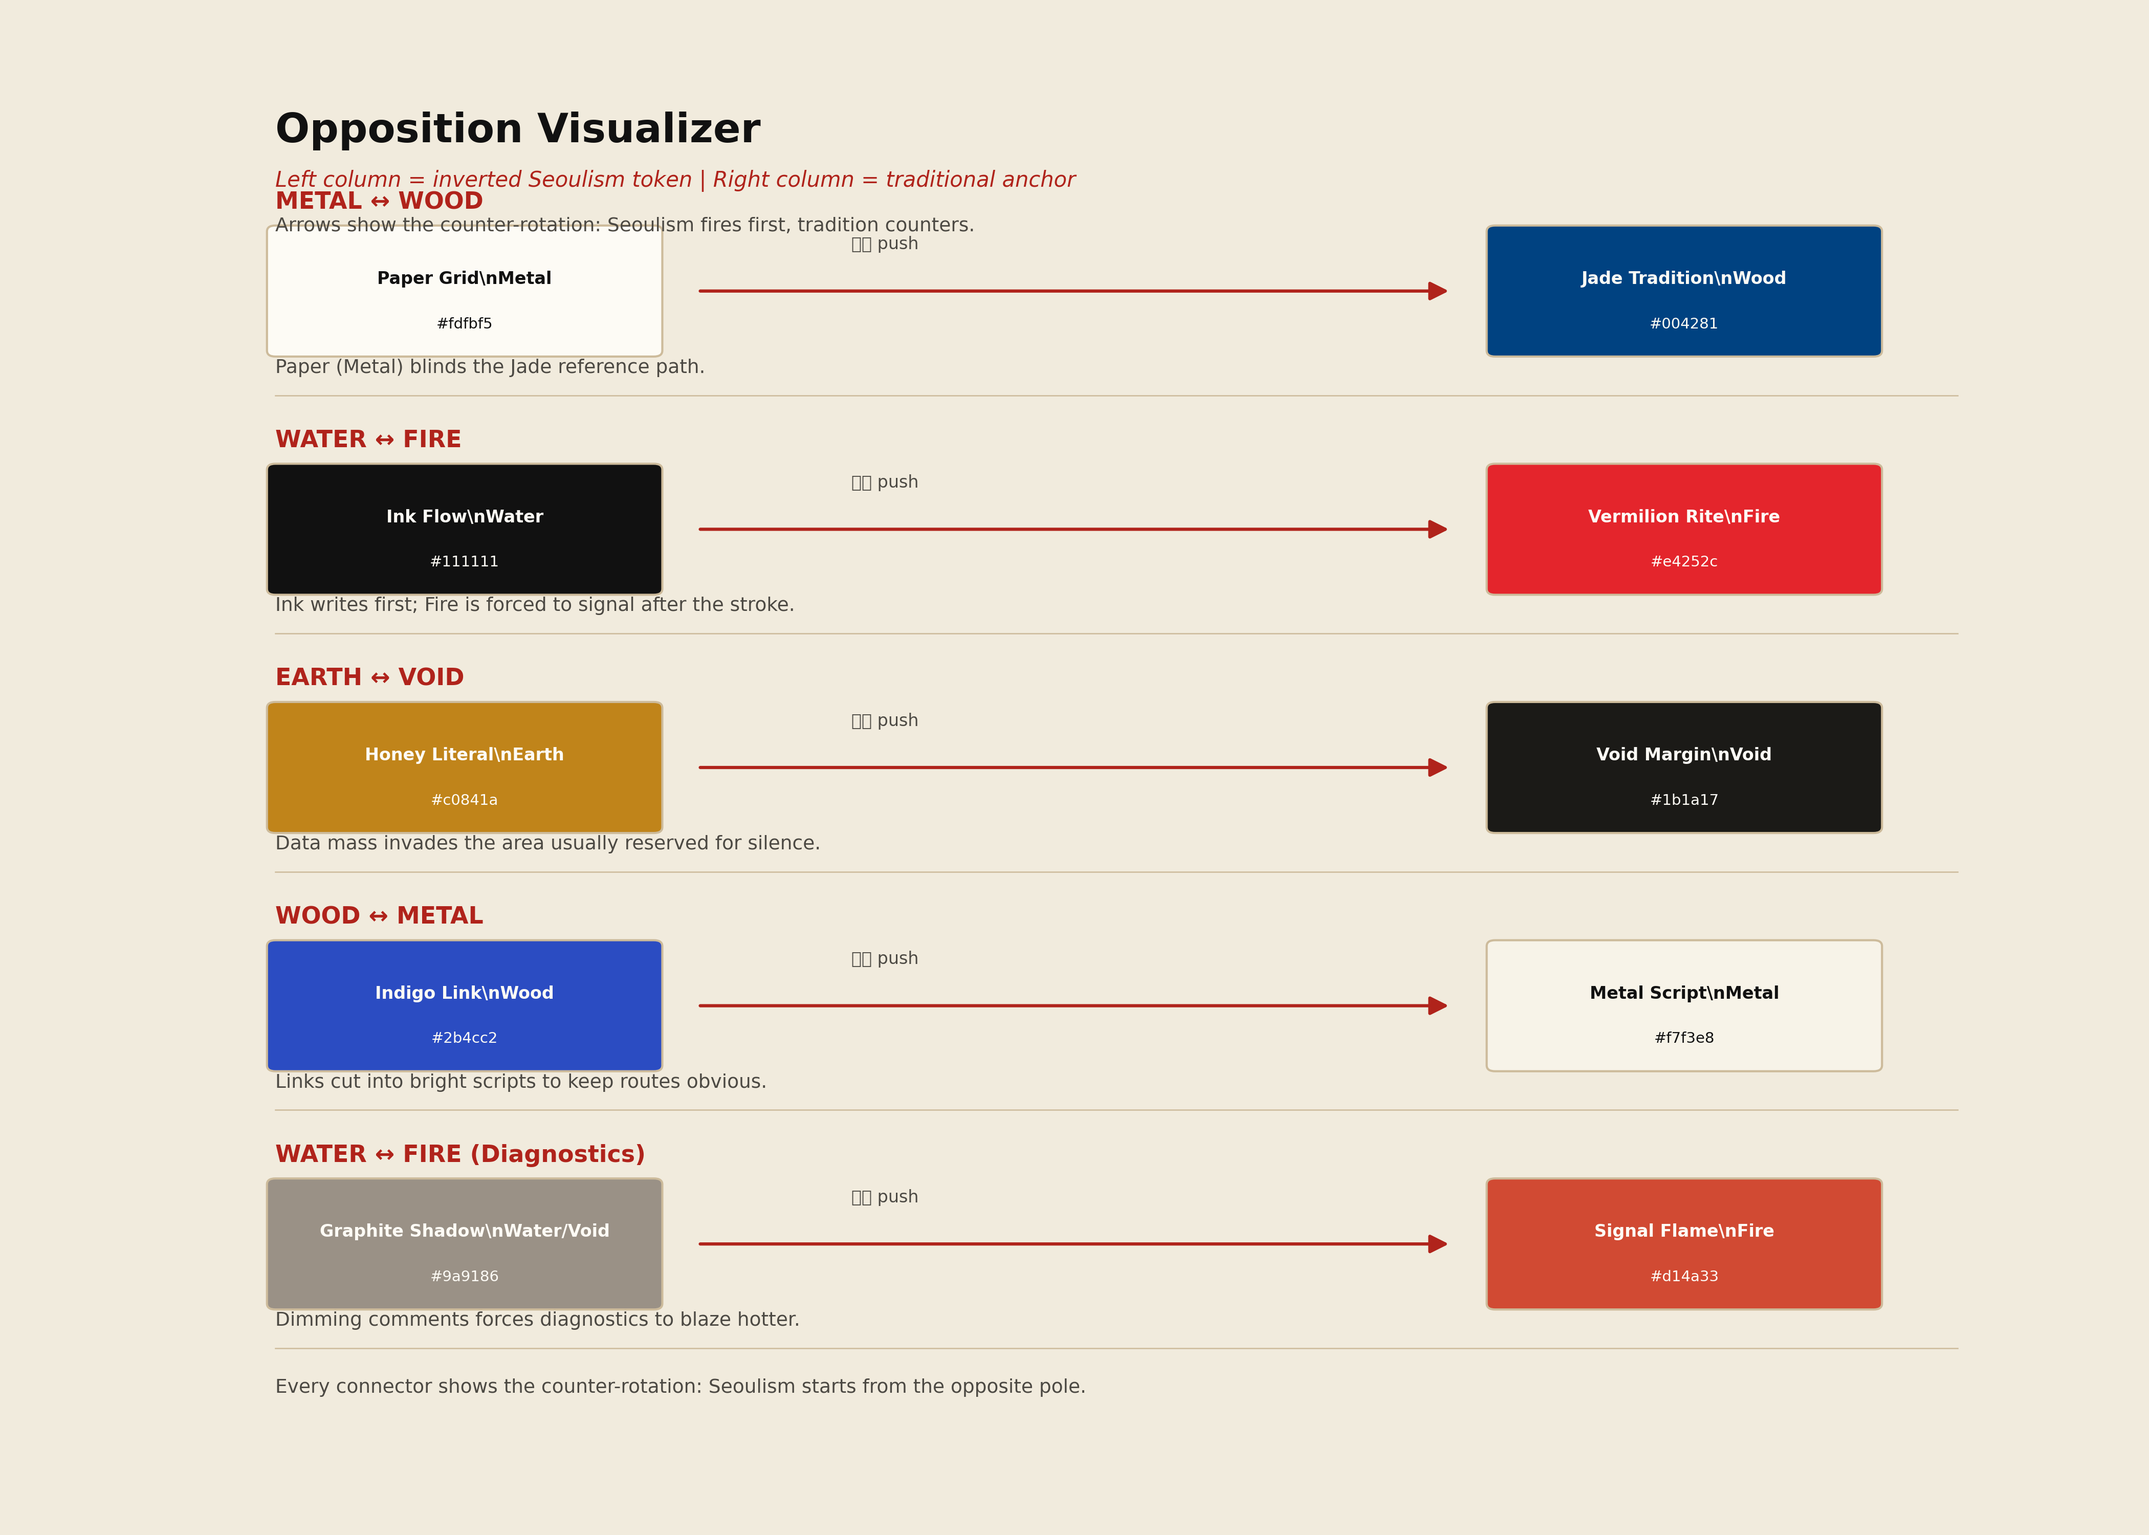
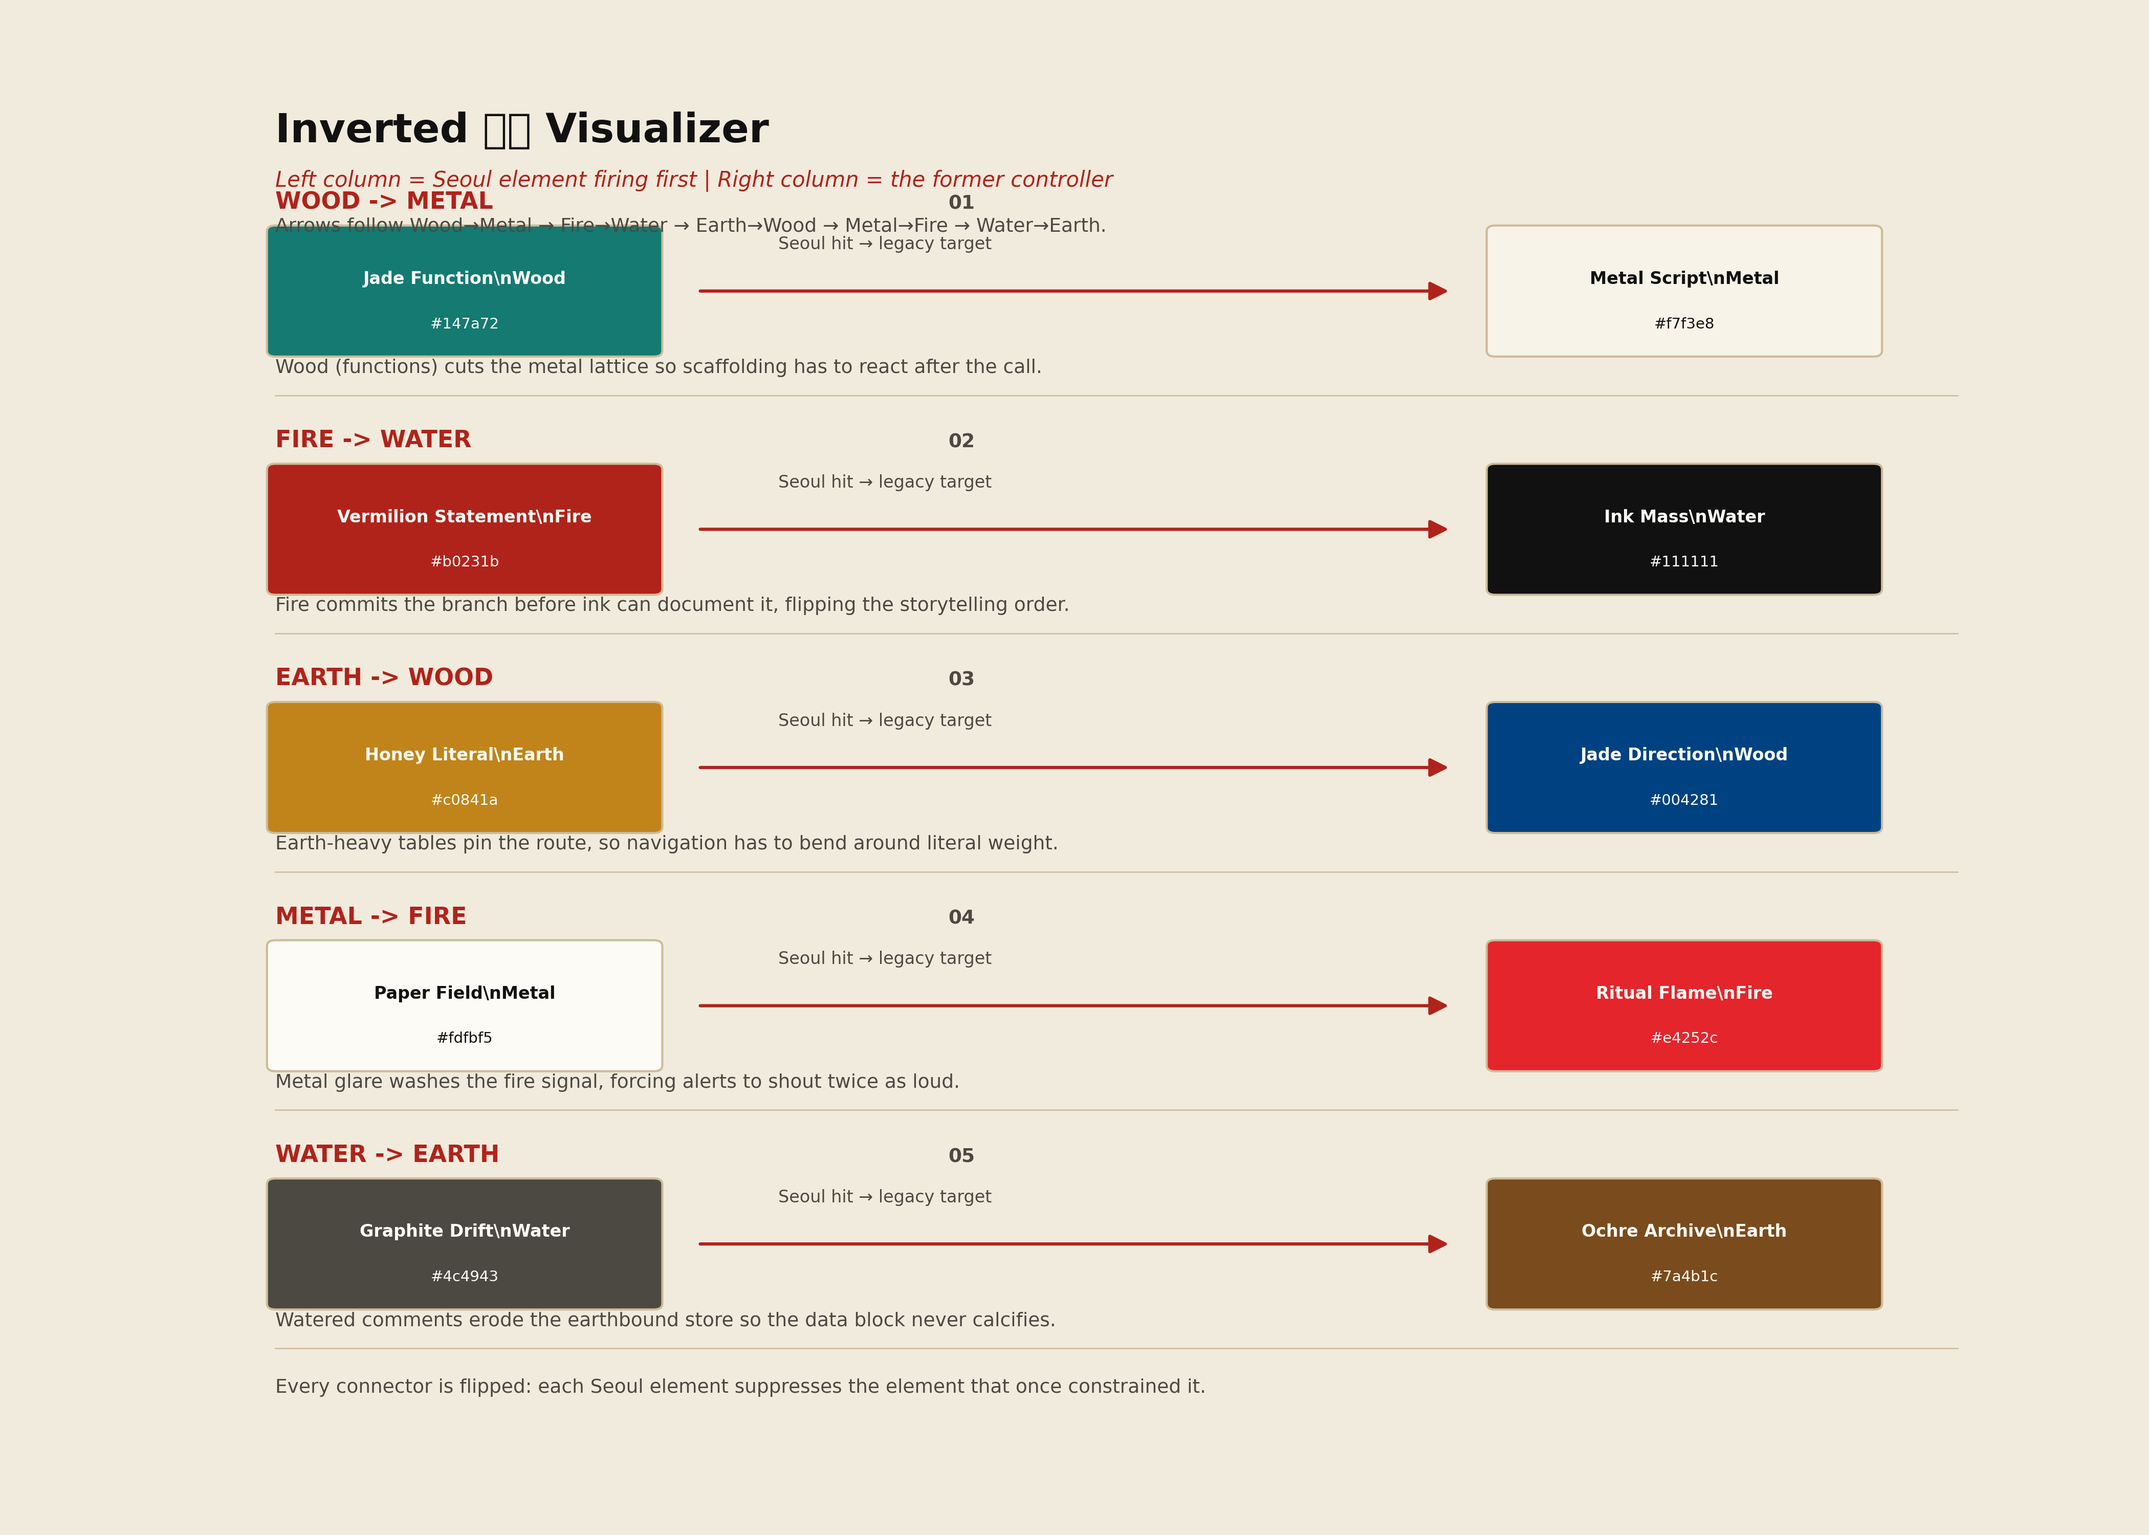
update palette

diff --git a/preview.py b/preview.py
@@ -8,30 +8,41 @@ GRAPHITE = '#4c4943'
 DIVIDER = '#d8cbb7'
 ACCENT = '#b0231b'
 
-PAIRS = [
+COUNTER_CHAIN = [
     {
-        'pair': 'METAL ↔ WOOD',
-        'seoul': {'tag': 'Paper Grid', 'hex': PAPER, 'element': 'Metal', 'logic': 'Field / Stage'},
-        'trad': {'tag': 'Jade Anchor', 'hex': '#004281', 'element': 'Wood', 'logic': 'Lineage / Direction'},
-        'note': 'Paper-first Metal clamps the Jade lineage so navigation must carve through glare.'
+        'step': '01',
+        'pair': 'WOOD -> METAL',
+        'seoul': {'tag': 'Jade Function', 'hex': '#147a72', 'element': 'Wood', 'logic': 'Declares / Breaths'},
+        'trad': {'tag': 'Metal Script', 'hex': '#f7f3e8', 'element': 'Metal', 'logic': 'Law / Frame'},
+        'note': 'Wood-first functions now cleave into pale metal scaffolding, so structure happens after the breath.'
     },
     {
-        'pair': 'WATER ↔ FIRE',
-        'seoul': {'tag': 'Ink Flow', 'hex': '#111111', 'element': 'Water', 'logic': 'Content / Stroke'},
-        'trad': {'tag': 'Vermilion Alarm', 'hex': '#e4252c', 'element': 'Fire', 'logic': 'Warning / Ritual'},
-        'note': 'Ink (Water) now initiates, forcing vermilion fire to answer as a counter-punch.'
+        'step': '02',
+        'pair': 'FIRE -> WATER',
+        'seoul': {'tag': 'Vermilion Statement', 'hex': '#b0231b', 'element': 'Fire', 'logic': 'Decision / Heat'},
+        'trad': {'tag': 'Ink Mass', 'hex': '#111111', 'element': 'Water', 'logic': 'Stroke / Memory'},
+        'note': 'Statements ignite before ink settles; Water has to archive what Fire already committed.'
     },
     {
-        'pair': 'EARTH ↔ VOID',
-        'seoul': {'tag': 'Honey Earth', 'hex': '#c0841a', 'element': 'Earth', 'logic': 'Literal / Data'},
-        'trad': {'tag': 'Shadow Void', 'hex': '#1b1a17', 'element': 'Void', 'logic': 'Silence / Margin'},
-        'note': 'Warm literals invade the space normally reserved for void, keeping whitespace under tension.'
+        'step': '03',
+        'pair': 'EARTH -> WOOD',
+        'seoul': {'tag': 'Honey Literal', 'hex': '#c0841a', 'element': 'Earth', 'logic': 'Data / Weight'},
+        'trad': {'tag': 'Jade Direction', 'hex': '#004281', 'element': 'Wood', 'logic': 'Route / Hierarchy'},
+        'note': 'Literal tables pin the navigation layer, forcing wayfinding to grow around dense data.'
     },
     {
-        'pair': 'WOOD(LINK) ↔ METAL(LINE)',
-        'seoul': {'tag': 'Indigo Link', 'hex': '#2b4cc2', 'element': 'Wood(Link)', 'logic': 'Reference / Jump'},
-        'trad': {'tag': 'Metal Script', 'hex': '#f7f3e8', 'element': 'Metal', 'logic': 'Structure / Law'},
-        'note': 'Navigation blue slices across bright scripts so structure never relaxes.'
+        'step': '04',
+        'pair': 'METAL -> FIRE',
+        'seoul': {'tag': 'Paper Field', 'hex': PAPER, 'element': 'Metal', 'logic': 'Stage / Surface'},
+        'trad': {'tag': 'Ritual Flame', 'hex': '#e4252c', 'element': 'Fire', 'logic': 'Alert / Rite'},
+        'note': 'Glare-first metal bleaches legacy alarms so Fire has to over-saturate to register.'
+    },
+    {
+        'step': '05',
+        'pair': 'WATER -> EARTH',
+        'seoul': {'tag': 'Graphite Ink', 'hex': GRAPHITE, 'element': 'Water', 'logic': 'Comment / Drift'},
+        'trad': {'tag': 'Ochre Archive', 'hex': '#7a4b1c', 'element': 'Earth', 'logic': 'Store / Terrain'},
+        'note': 'Graphite-toned documentation seeps into earthy stores, so data blocks stay porous.'
     },
 ]
 
@@ -51,8 +62,8 @@ def draw_seoulism_blueprint():
     ax.set_ylim(0, 100)
     ax.axis('off')
 
-    ax.text(8, 93, 'SEOULISM SANGGEUK BLUEPRINT', color=INK, fontsize=20, weight='bold')
-    ax.text(8, 89, 'Every pair is drawn as its own opposition. No neutral ground.',
+    ax.text(8, 93, 'SEOULISM COUNTER-CHAIN BLUEPRINT', color=INK, fontsize=20, weight='bold')
+    ax.text(8, 89, 'Seoul colors attack the element that used to control them. Tradition is now on defense.',
             color=ACCENT, fontsize=10, style='italic')
 
     row_height = 18
@@ -60,11 +71,13 @@ def draw_seoulism_blueprint():
     left_x = 10
     right_x = 58
 
-    for idx, pair in enumerate(PAIRS):
+    for idx, pair in enumerate(COUNTER_CHAIN):
         y = 80 - idx * row_height
         pair_label_y = y + block_height + 3
 
-        ax.text(left_x, pair_label_y, pair['pair'], color=ACCENT,
+        ax.text(left_x, pair_label_y,
+                f"{pair['step']} {pair['pair']}",
+                color=ACCENT,
                 fontsize=12, weight='bold')
         ax.text(left_x, y - 2, pair['note'], color=GRAPHITE,
                 fontsize=9, alpha=0.95)
@@ -102,9 +115,12 @@ def draw_seoulism_blueprint():
                     arrowprops=dict(arrowstyle='->', color=ACCENT,
                                     lw=1.4, mutation_scale=18))
         ax.text((left_x + right_x) / 2 + 5, y + block_height / 2 + 2,
-                'counter-rotation', color=GRAPHITE, fontsize=8, ha='center')
+                'Seoul hit ➜ former anchor', color=GRAPHITE, fontsize=8, ha='center')
 
         ax.plot([left_x, 90], [y - 4, y - 4], color=DIVIDER, linewidth=0.6)
+
+    ax.text(8, 10, 'Order: Wood→Metal → Fire→Water → Earth→Wood → Metal→Fire → Water→Earth',
+            color=GRAPHITE, fontsize=8.5)
 
     plt.tight_layout()
     plt.savefig('preview.png', facecolor=PAPER_EDGE, dpi=300)

diff --git a/visualizer.py b/visualizer.py
@@ -8,36 +8,41 @@ GRAPHITE = '#4c4943'
 DIVIDER = '#cdbb9b'
 ACCENT = '#b0231b'
 
-PAIRS = [
+COUNTER_CHAIN = [
     {
-        'name': 'METAL ↔ WOOD',
-        'seoul': {'label': 'Paper Grid', 'hex': '#fdfbf5', 'element': 'Metal'},
-        'trad': {'label': 'Jade Tradition', 'hex': '#004281', 'element': 'Wood'},
-        'logic': 'Paper (Metal) blinds the Jade reference path.'
-    },
-    {
-        'name': 'WATER ↔ FIRE',
-        'seoul': {'label': 'Ink Flow', 'hex': '#111111', 'element': 'Water'},
-        'trad': {'label': 'Vermilion Rite', 'hex': '#e4252c', 'element': 'Fire'},
-        'logic': 'Ink writes first; Fire is forced to signal after the stroke.'
-    },
-    {
-        'name': 'EARTH ↔ VOID',
-        'seoul': {'label': 'Honey Literal', 'hex': '#c0841a', 'element': 'Earth'},
-        'trad': {'label': 'Void Margin', 'hex': '#1b1a17', 'element': 'Void'},
-        'logic': 'Data mass invades the area usually reserved for silence.'
-    },
-    {
-        'name': 'WOOD ↔ METAL',
-        'seoul': {'label': 'Indigo Link', 'hex': '#2b4cc2', 'element': 'Wood'},
+        'step': '01',
+        'name': 'WOOD -> METAL',
+        'seoul': {'label': 'Jade Function', 'hex': '#147a72', 'element': 'Wood'},
         'trad': {'label': 'Metal Script', 'hex': '#f7f3e8', 'element': 'Metal'},
-        'logic': 'Links cut into bright scripts to keep routes obvious.'
+        'logic': 'Wood (functions) cuts the metal lattice so scaffolding has to react after the call.'
     },
     {
-        'name': 'WATER ↔ FIRE (Diagnostics)',
-        'seoul': {'label': 'Graphite Shadow', 'hex': '#9a9186', 'element': 'Water/Void'},
-        'trad': {'label': 'Signal Flame', 'hex': '#d14a33', 'element': 'Fire'},
-        'logic': 'Dimming comments forces diagnostics to blaze hotter.'
+        'step': '02',
+        'name': 'FIRE -> WATER',
+        'seoul': {'label': 'Vermilion Statement', 'hex': '#b0231b', 'element': 'Fire'},
+        'trad': {'label': 'Ink Mass', 'hex': '#111111', 'element': 'Water'},
+        'logic': 'Fire commits the branch before ink can document it, flipping the storytelling order.'
+    },
+    {
+        'step': '03',
+        'name': 'EARTH -> WOOD',
+        'seoul': {'label': 'Honey Literal', 'hex': '#c0841a', 'element': 'Earth'},
+        'trad': {'label': 'Jade Direction', 'hex': '#004281', 'element': 'Wood'},
+        'logic': 'Earth-heavy tables pin the route, so navigation has to bend around literal weight.'
+    },
+    {
+        'step': '04',
+        'name': 'METAL -> FIRE',
+        'seoul': {'label': 'Paper Field', 'hex': '#fdfbf5', 'element': 'Metal'},
+        'trad': {'label': 'Ritual Flame', 'hex': '#e4252c', 'element': 'Fire'},
+        'logic': 'Metal glare washes the fire signal, forcing alerts to shout twice as loud.'
+    },
+    {
+        'step': '05',
+        'name': 'WATER -> EARTH',
+        'seoul': {'label': 'Graphite Drift', 'hex': '#4c4943', 'element': 'Water'},
+        'trad': {'label': 'Ochre Archive', 'hex': '#7a4b1c', 'element': 'Earth'},
+        'logic': 'Watered comments erode the earthbound store so the data block never calcifies.'
     }
 ]
 
@@ -67,20 +72,22 @@ def draw_seoulism_chain():
     ax.set_ylim(0, 100)
     ax.axis('off')
 
-    ax.text(12, 92, 'Opposition Visualizer', color=INK, fontsize=19, weight='bold')
-    ax.text(12, 89, 'Left column = inverted Seoulism token | Right column = traditional anchor',
+    ax.text(12, 92, 'Inverted 상극 Visualizer', color=INK, fontsize=19, weight='bold')
+    ax.text(12, 89, 'Left column = Seoul element firing first | Right column = the former controller',
             color=ACCENT, fontsize=10, style='italic')
-    ax.text(12, 86, 'Arrows show the counter-rotation: Seoulism fires first, tradition counters.',
+    ax.text(12, 86, 'Arrows follow Wood→Metal → Fire→Water → Earth→Wood → Metal→Fire → Water→Earth.',
             color=GRAPHITE, fontsize=9)
 
     left_x = 12
     right_x = 70
     row_gap = 16
 
-    for idx, pair in enumerate(PAIRS):
+    for idx, pair in enumerate(COUNTER_CHAIN):
         y = 78 - idx * row_gap
         ax.text(left_x, y + 9.5, pair['name'], color=ACCENT,
                 fontsize=11, weight='bold')
+        ax.text(left_x + 32, y + 9.5, pair['step'], color=GRAPHITE,
+                fontsize=9, weight='bold')
         ax.text(left_x, y - 1.5, pair['logic'], color=GRAPHITE,
                 fontsize=9)
 
@@ -90,12 +97,12 @@ def draw_seoulism_chain():
         ax.annotate('', xy=(right_x - 2, y + 4), xytext=(left_x + 18 + 2, y + 4),
                     arrowprops=dict(arrowstyle='-|>', color=ACCENT,
                                     lw=1.5, mutation_scale=18))
-        ax.text((left_x + right_x) / 2, y + 6.8, '상극 push',
+        ax.text((left_x + right_x) / 2, y + 6.8, 'Seoul hit → legacy target',
                 color=GRAPHITE, fontsize=8, ha='center')
 
         ax.plot([left_x, 92], [y - 3, y - 3], color=DIVIDER, linewidth=0.6)
 
-    ax.text(12, 8, 'Every connector shows the counter-rotation: Seoulism starts from the opposite pole.',
+    ax.text(12, 8, 'Every connector is flipped: each Seoul element suppresses the element that once constrained it.',
             color=GRAPHITE, fontsize=9)
 
     plt.tight_layout()

diff --git a/pentagon.py b/pentagon.py
@@ -14,11 +14,11 @@ STAR_ARROW = '#2f3b8f'
 NODE_OUTLINE = '#bfae95'
 
 ELEMENTS = [
-    ('WOOD',  '#0000FF', '#147a72', 'Counter Metal'),
-    ('FIRE',  '#FF0000', '#b0231b', 'Counter Water'),
-    ('EARTH', '#FFFF00', '#c0841a', 'Counter Void'),
-    ('METAL', '#FFFFFF', '#fdfbf5', 'Counter Wood'),
-    ('WATER', '#000000', '#111111', 'Counter Fire'),
+    ('WOOD',  '#0000FF', '#147a72', 'Cuts Metal first'),
+    ('FIRE',  '#FF0000', '#b0231b', 'Overwrites Water'),
+    ('EARTH', '#FFFF00', '#c0841a', 'Pins Wood'),
+    ('METAL', '#FFFFFF', '#fdfbf5', 'Bleaches Fire'),
+    ('WATER', '#000000', '#111111', 'Erodes Earth'),
 ]
 
 COUNTER_PAIRS = [(0, 3), (1, 4), (2, 0), (3, 1), (4, 2)]
@@ -69,7 +69,8 @@ def draw_systemic_divergence():
         ax.text(x, y - 0.3, trad + ' trad', ha='center', va='center', fontsize=7,
                 color=GRAPHITE)
 
-    ax.text(0, -1.5, 'Red arrows = Counter-Rotation pairs (modern hit) | Dotted star = tradition order',
+    ax.text(0, -1.45,
+            'Red arrows: Wood→Metal → Fire→Water → Earth→Wood → Metal→Fire → Water→Earth | Dotted star = tradition order',
             color=GRAPHITE, fontsize=9, ha='center')
 
     plt.savefig("pentagon_cycle.png")

diff --git a/README.md b/README.md
@@ -35,7 +35,7 @@ The canvas uses `#fdfbf5`, a slight-warm hanji tone. The default text is `#11111
 
 ### 상극: reversing the chain
 
-Instead of marching through Fire ➜ Earth ➜ Metal, the palette now starts from oppositions: Metal vs. Wood, Water vs. Fire, Earth vs. Void. Accents are paired with their counterpart and the README, preview diagram, and pentagon plot all document those inversions.
+Instead of marching through Fire ➜ Earth ➜ Metal, the palette now fires in reverse: **Wood → Metal**, **Fire → Water**, **Earth → Wood**, **Metal → Fire**, **Water → Earth**. Each Seoulism color now attacks the element that traditionally kept it in check. The preview diagram, visualizer, and pentagon all share this exact order so the flipped 상극 logic is impossible to miss.
 
 ### Emotion before scene
 
@@ -56,7 +56,17 @@ This is still an interpretation of 오방색, just expressed as a modern daytime
 ![Visualizer](./visualizer.png)
 ![Pentagon](./pentagon_cycle.png)
 
-The updated diagrams document the new order. Each chain now starts from cognitive role ➜ Seoulism token ➜ traditional anchor so you can read how each counter-color is wired.
+The updated diagrams document the flipped order. Each chain now starts from cognitive role ➜ Seoulism token ➜ the traditional anchor it now suppresses so you can read how each counter-color is wired.
+
+| Step | Seoul element (color) | Traditional target | Palette effect |
+| ---- | --------------------- | ------------------ | -------------- |
+| 01   | **WOOD** · Jade/Indigo (`#147a72` / `#2b4cc2`) | **METAL** · Pale script (`#f7f3e8`) | Functions and links cut into the metal lattice, so structure responds after invocation. |
+| 02   | **FIRE** · Vermilion (`#b0231b`) | **WATER** · Ink mass (`#111111`) | Branches and statements ignite before ink can record them, forcing Water to archive the decision late. |
+| 03   | **EARTH** · Honey literal (`#c0841a`) | **WOOD** · Jade route (`#004281`) | Dense data pins the navigation layer so routes must grow around the payload. |
+| 04   | **METAL** · Paper field (`#fdfbf5`) | **FIRE** · Ritual flame (`#e4252c`) | Paper glare bleaches historic warnings, so Fire over-saturates diagnostics to be seen. |
+| 05   | **WATER** · Graphite (`#4c4943`) | **EARTH** · Ochre archive (`#7a4b1c`) | Documentation seeps into the earthy store so constants never calcify. |
+
+That counter-table is the same sequence the Python visualizers render (Wood→Metal → Fire→Water → Earth→Wood → Metal→Fire → Water→Earth).
 
 ---
 
